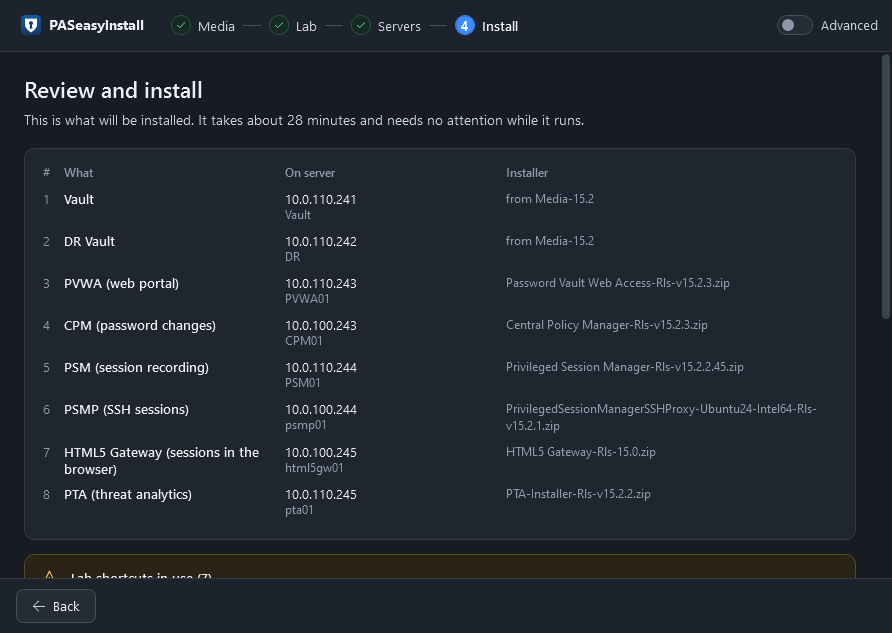
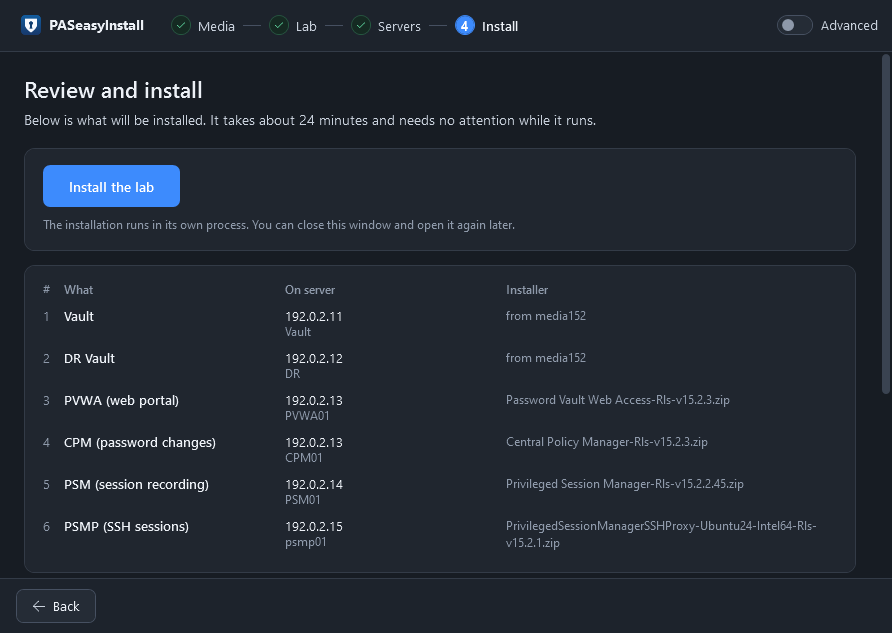
Release 2.0.16: Install the lab is at the top of the Install step
The Install step listed the plan, the lab shortcuts and the lab file card first and put Install the lab
last, so with a larger lab the button was only reached by scrolling and easy to miss. The button card now
comes right under the time estimate (and under the not-hardened warning when hardening is off), above the
plan. Docs text and the two review screenshots follow (Mock self-test walk, documentation addresses).

Tested: Mock -SelfTest walks to the review step on winDEV, with and without hardening (0 failures, button
in view without scrolling); full suite 718 passed; UI suites 144 passed; Check-Source and doc links clean.

diff --git a/site-src/gui/review.md b/site-src/gui/review.md
@@ -7,8 +7,9 @@ confirm, nothing is changed on any server.
 
 ## The plan
 
-The line at the top says roughly how long the installation takes. Below it, one line per component: its
-number, what it is, on which server (address and name), and which installer file is used.
+The line at the top says roughly how long the installation takes. Right below it is **Install the lab**, so it
+is in view without scrolling, however long the plan is. Below the button, one line per component: its number,
+what it is, on which server (address and name), and which installer file is used.
 
 The numbers are the order of the plan, not a waiting line: the servers are installed at the same time
 ([Servers at the same time](../concepts/parallel.md)).
@@ -24,7 +25,7 @@ desktop to the Vault from this computer. They are fine for a lab and not for pro
 its title says how many shortcuts there are, and **Show the list** opens it. Each one is explained
 on [Lab and Secure profiles](../concepts/profiles.md). The window always uses the Lab profile.
 
-If you switched off *Apply the vendor hardening* on the Servers step, a box above the shortcuts says so:
+If you switched off *Apply the vendor hardening* on the Servers step, a box above **Install the lab** says so:
 
 ![The warning that the servers will not be hardened](../assets/window/13-review-not-hardened.png)
 

diff --git a/README.md b/README.md
@@ -87,7 +87,7 @@ every server answers and every account can sign in. Nothing is installed yet.
 
 ![Servers step: one line per server](site-src/assets/window/09-servers.png)
 
-**4. Install.** The plan in order, the lab shortcuts it uses, and **Install the lab**. Until you press it and
+**4. Install.** **Install the lab** at the top, then the plan in order and the lab shortcuts it uses. Until you press it and
 confirm, nothing is changed on any server.
 
 ![Install step: what will be installed, on which server, with which installer](site-src/assets/window/12-review.png)

diff --git a/site-src/release-notes.md b/site-src/release-notes.md
@@ -1,5 +1,11 @@
 # Release notes
 
+## 2.0.16
+
+- **Install the lab is at the top of the Install step.** The button was below the plan, the lab shortcuts and the
+  lab file card, so with a larger lab it was only reached by scrolling and easy to miss. It now comes right under
+  the time estimate (and under the warning when the servers will not be hardened), above the plan.
+
 ## 2.0.15
 
 - **PSM hardening tries again up to three times after a LanmanServer timeout.** Right after the hardening
